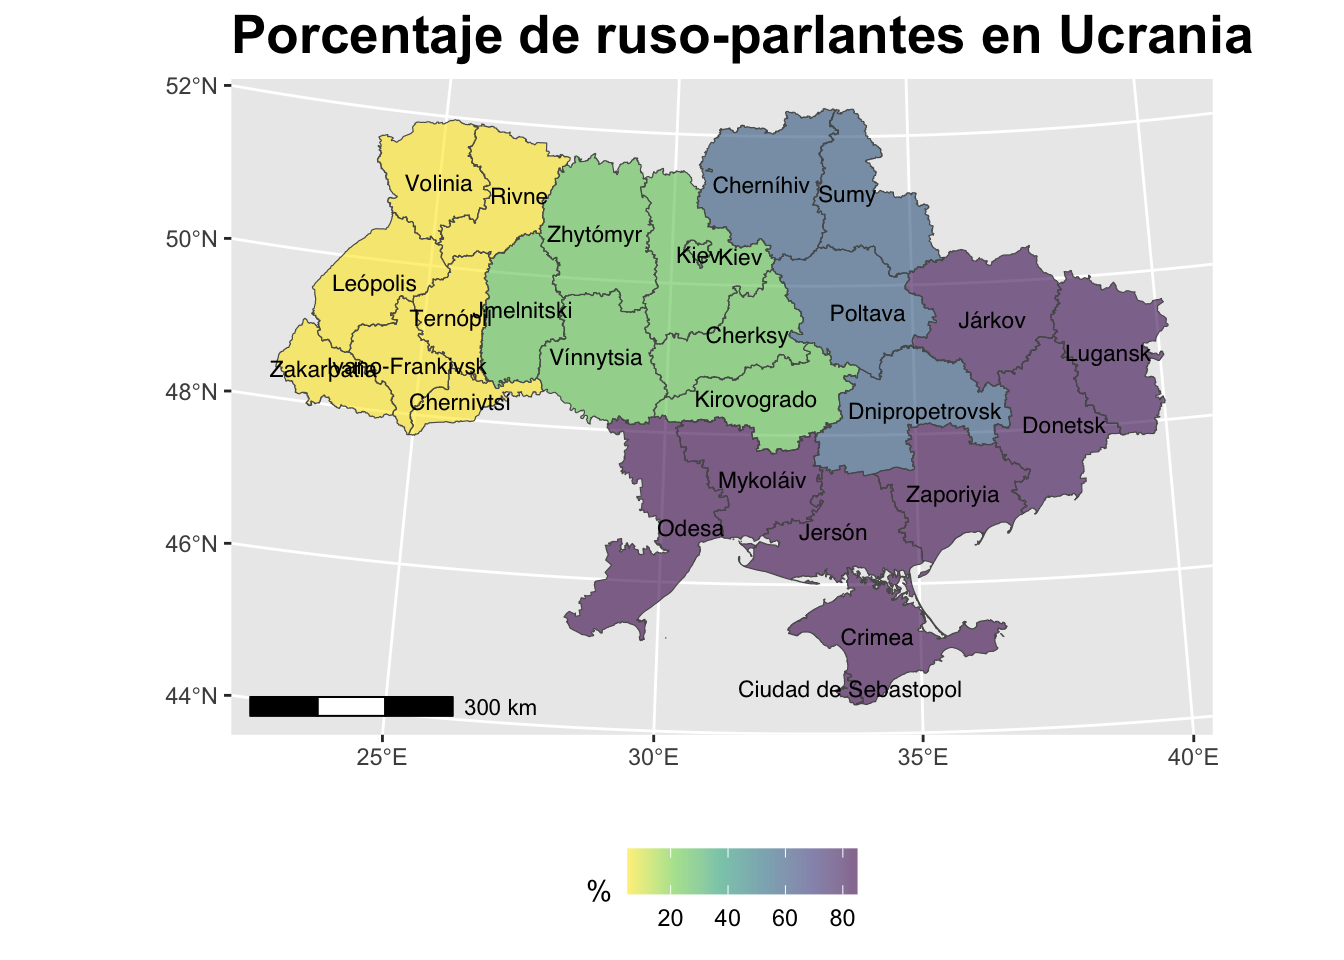
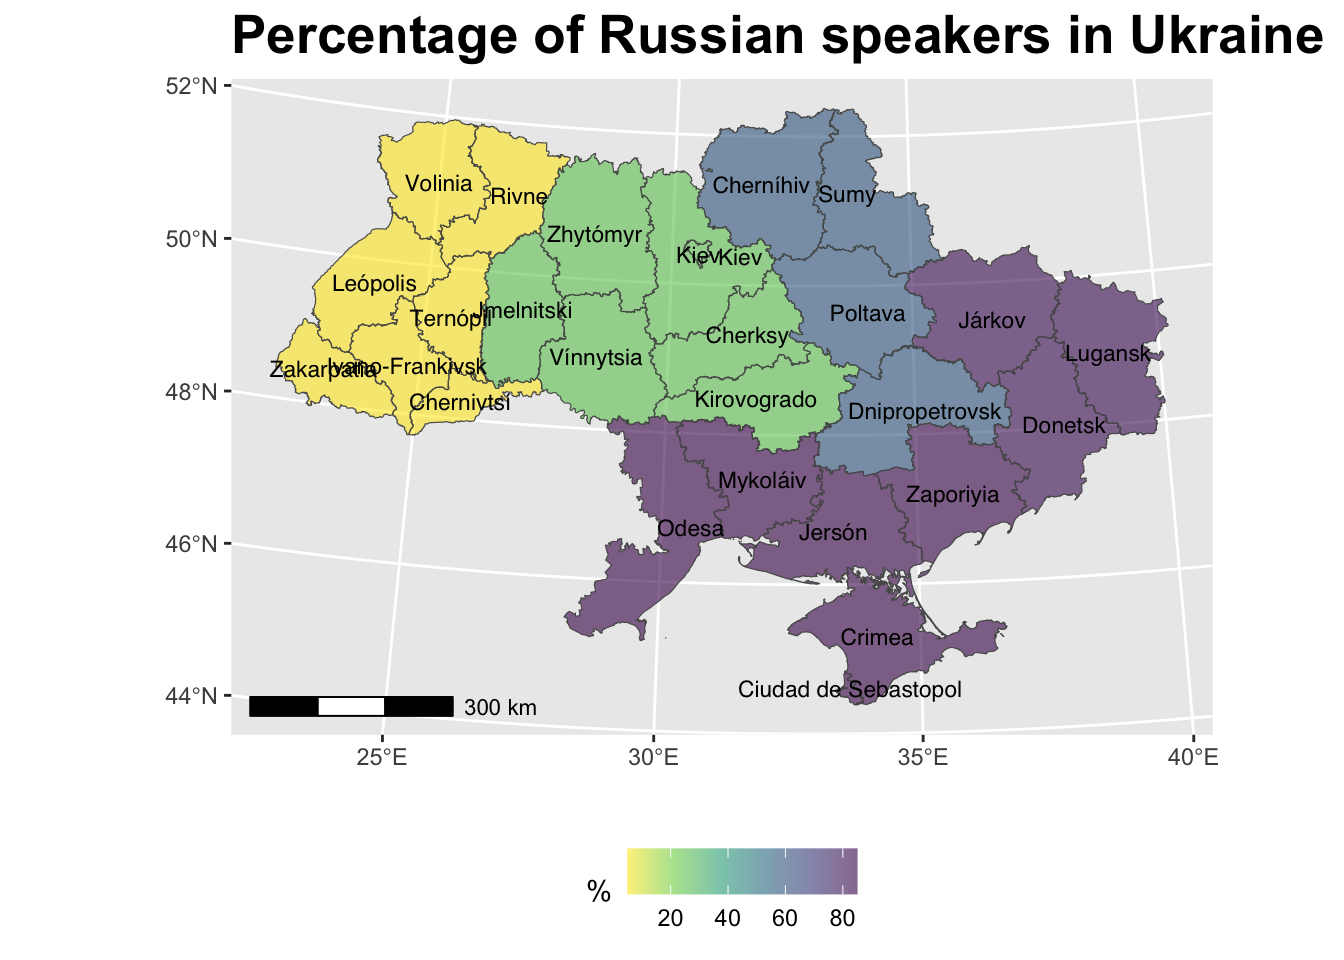
25J

Changed region(s): [[0.1875, 0.0, 1.0, 0.0625]]

diff --git a/docs/posts/Ukraine_map_ggplot2/index.html b/docs/posts/Ukraine_map_ggplot2/index.html
@@ -166,7 +166,7 @@ code span.wa { color: #60a0b0; font-weight: bold; font-style: italic; } /* Warni
 <header id="title-block-header" class="quarto-title-block default page-columns page-full">
   <div class="quarto-title-banner page-columns page-full">
     <div class="quarto-title column-body">
-      <h1 class="title">Porcentaje de ruso-parlantes en Ucrania</h1>
+      <h1 class="title">Percentage of Russian speakers in Ukraine</h1>
                                 <div class="quarto-categories">
                 <div class="quarto-category">code</div>
                 <div class="quarto-category">analysis</div>
@@ -244,22 +244,20 @@ code span.wa { color: #60a0b0; font-weight: bold; font-style: italic; } /* Warni
 <span id="cb2-3"><a href="#cb2-3" aria-hidden="true" tabindex="-1"></a>ru<span class="sc">$</span>Español <span class="ot">&lt;-</span> <span class="fu">gsub</span>(<span class="st">"Ciudad de Kiev"</span>,<span class="st">"Kiev "</span>,ru<span class="sc">$</span>Español)</span>
 <span id="cb2-4"><a href="#cb2-4" aria-hidden="true" tabindex="-1"></a>ru<span class="sc">$</span>Español <span class="ot">&lt;-</span> <span class="fu">gsub</span>(<span class="st">"República Autónoma de Crimea"</span>,<span class="st">"Crimea"</span>,ru<span class="sc">$</span>Español)</span>
 <span id="cb2-5"><a href="#cb2-5" aria-hidden="true" tabindex="-1"></a></span>
-<span id="cb2-6"><a href="#cb2-6" aria-hidden="true" tabindex="-1"></a><span class="co"># Ruso-parlantes </span></span>
-<span id="cb2-7"><a href="#cb2-7" aria-hidden="true" tabindex="-1"></a></span>
-<span id="cb2-8"><a href="#cb2-8" aria-hidden="true" tabindex="-1"></a>es <span class="ot">&lt;-</span> <span class="fu">ggplot</span>(<span class="at">data =</span> ru) <span class="sc">+</span></span>
-<span id="cb2-9"><a href="#cb2-9" aria-hidden="true" tabindex="-1"></a>  <span class="fu">ggtitle</span>(<span class="st">"Porcentaje de ruso-parlantes en Ucrania"</span>) <span class="sc">+</span></span>
-<span id="cb2-10"><a href="#cb2-10" aria-hidden="true" tabindex="-1"></a>  <span class="fu">xlab</span>(<span class="st">""</span>) <span class="sc">+</span></span>
-<span id="cb2-11"><a href="#cb2-11" aria-hidden="true" tabindex="-1"></a>  <span class="fu">ylab</span>(<span class="st">""</span>) <span class="sc">+</span></span>
-<span id="cb2-12"><a href="#cb2-12" aria-hidden="true" tabindex="-1"></a>  <span class="fu">geom_sf</span>(<span class="fu">aes</span>(<span class="at">fill=</span>PorcRus), <span class="at">show.legend =</span> T, <span class="at">size =</span> <span class="fl">0.05</span>) <span class="sc">+</span></span>
-<span id="cb2-13"><a href="#cb2-13" aria-hidden="true" tabindex="-1"></a>  <span class="fu">scale_fill_viridis_c</span>(<span class="at">alpha =</span> .<span class="dv">6</span>, <span class="at">direction =</span> <span class="sc">-</span><span class="dv">1</span>) <span class="sc">+</span></span>
-<span id="cb2-14"><a href="#cb2-14" aria-hidden="true" tabindex="-1"></a>  <span class="fu">geom_sf_text</span>(<span class="fu">aes</span>(<span class="at">label =</span>Español),<span class="at">size=</span><span class="dv">3</span>,<span class="at">family=</span><span class="st">"sans"</span>)<span class="sc">+</span></span>
-<span id="cb2-15"><a href="#cb2-15" aria-hidden="true" tabindex="-1"></a>  <span class="fu">theme</span>(<span class="at">plot.title =</span> <span class="fu">element_text</span>(<span class="at">size =</span> <span class="dv">20</span>, <span class="at">face =</span> <span class="st">"bold"</span>),</span>
-<span id="cb2-16"><a href="#cb2-16" aria-hidden="true" tabindex="-1"></a>        <span class="at">plot.subtitle =</span> <span class="fu">element_text</span>(<span class="at">size =</span> <span class="dv">20</span>),</span>
-<span id="cb2-17"><a href="#cb2-17" aria-hidden="true" tabindex="-1"></a>        <span class="at">legend.position=</span><span class="st">"bottom"</span>) <span class="sc">+</span></span>
-<span id="cb2-18"><a href="#cb2-18" aria-hidden="true" tabindex="-1"></a>  <span class="fu">labs</span>(<span class="at">fill=</span> <span class="st">"%"</span>) <span class="sc">+</span></span>
-<span id="cb2-19"><a href="#cb2-19" aria-hidden="true" tabindex="-1"></a>  <span class="fu">annotation_scale</span>()</span>
-<span id="cb2-20"><a href="#cb2-20" aria-hidden="true" tabindex="-1"></a></span>
-<span id="cb2-21"><a href="#cb2-21" aria-hidden="true" tabindex="-1"></a>es</span></code><button title="Copy to Clipboard" class="code-copy-button"><i class="bi"></i></button></pre></div>
+<span id="cb2-6"><a href="#cb2-6" aria-hidden="true" tabindex="-1"></a>es <span class="ot">&lt;-</span> <span class="fu">ggplot</span>(<span class="at">data =</span> ru) <span class="sc">+</span></span>
+<span id="cb2-7"><a href="#cb2-7" aria-hidden="true" tabindex="-1"></a>  <span class="fu">ggtitle</span>(<span class="st">"Percentage of Russian speakers in Ukraine"</span>) <span class="sc">+</span></span>
+<span id="cb2-8"><a href="#cb2-8" aria-hidden="true" tabindex="-1"></a>  <span class="fu">xlab</span>(<span class="st">""</span>) <span class="sc">+</span></span>
+<span id="cb2-9"><a href="#cb2-9" aria-hidden="true" tabindex="-1"></a>  <span class="fu">ylab</span>(<span class="st">""</span>) <span class="sc">+</span></span>
+<span id="cb2-10"><a href="#cb2-10" aria-hidden="true" tabindex="-1"></a>  <span class="fu">geom_sf</span>(<span class="fu">aes</span>(<span class="at">fill=</span>PorcRus), <span class="at">show.legend =</span> T, <span class="at">size =</span> <span class="fl">0.05</span>) <span class="sc">+</span></span>
+<span id="cb2-11"><a href="#cb2-11" aria-hidden="true" tabindex="-1"></a>  <span class="fu">scale_fill_viridis_c</span>(<span class="at">alpha =</span> .<span class="dv">6</span>, <span class="at">direction =</span> <span class="sc">-</span><span class="dv">1</span>) <span class="sc">+</span></span>
+<span id="cb2-12"><a href="#cb2-12" aria-hidden="true" tabindex="-1"></a>  <span class="fu">geom_sf_text</span>(<span class="fu">aes</span>(<span class="at">label =</span>Español),<span class="at">size=</span><span class="dv">3</span>,<span class="at">family=</span><span class="st">"sans"</span>)<span class="sc">+</span></span>
+<span id="cb2-13"><a href="#cb2-13" aria-hidden="true" tabindex="-1"></a>  <span class="fu">theme</span>(<span class="at">plot.title =</span> <span class="fu">element_text</span>(<span class="at">size =</span> <span class="dv">20</span>, <span class="at">face =</span> <span class="st">"bold"</span>),</span>
+<span id="cb2-14"><a href="#cb2-14" aria-hidden="true" tabindex="-1"></a>        <span class="at">plot.subtitle =</span> <span class="fu">element_text</span>(<span class="at">size =</span> <span class="dv">20</span>),</span>
+<span id="cb2-15"><a href="#cb2-15" aria-hidden="true" tabindex="-1"></a>        <span class="at">legend.position=</span><span class="st">"bottom"</span>) <span class="sc">+</span></span>
+<span id="cb2-16"><a href="#cb2-16" aria-hidden="true" tabindex="-1"></a>  <span class="fu">labs</span>(<span class="at">fill=</span> <span class="st">"%"</span>) <span class="sc">+</span></span>
+<span id="cb2-17"><a href="#cb2-17" aria-hidden="true" tabindex="-1"></a>  <span class="fu">annotation_scale</span>()</span>
+<span id="cb2-18"><a href="#cb2-18" aria-hidden="true" tabindex="-1"></a></span>
+<span id="cb2-19"><a href="#cb2-19" aria-hidden="true" tabindex="-1"></a>es</span></code><button title="Copy to Clipboard" class="code-copy-button"><i class="bi"></i></button></pre></div>
 <div class="cell-output-display">
 <p><img src="index_files/figure-html/unnamed-chunk-1-2.png" class="img-fluid" width="672"></p>
 </div>

diff --git a/docs/programandoenr.html b/docs/programandoenr.html
@@ -164,14 +164,14 @@ ul.task-list li input[type="checkbox"] {
 
 <div class="quarto-listing quarto-listing-container-default" id="listing-listing">
 <div class="list quarto-listing-default">
-<div class="quarto-post image-right" data-index="0" data-categories="code,analysis,map" data-listing-date-sort="1673391600000" data-listing-file-modified-sort="1690321467616" data-listing-reading-time-sort="0.815">
+<div class="quarto-post image-right" data-index="0" data-categories="code,analysis,map" data-listing-date-sort="1673391600000" data-listing-file-modified-sort="1690321690132" data-listing-reading-time-sort="0.81">
 <div class="thumbnail">
 <p><a href="./posts/Ukraine_map_ggplot2/index.html"> <img src="./posts/Ukraine_map_ggplot2/img.png" class="thumnail-image"> </a></p>
 </div>
 <div class="body">
 <a href="./posts/Ukraine_map_ggplot2/index.html">
 <h3 class="no-anchor listing-title">
-Porcentaje de ruso-parlantes en Ucrania
+Percentage of Russian speakers in Ukraine
 </h3>
 <div class="listing-subtitle">
 
